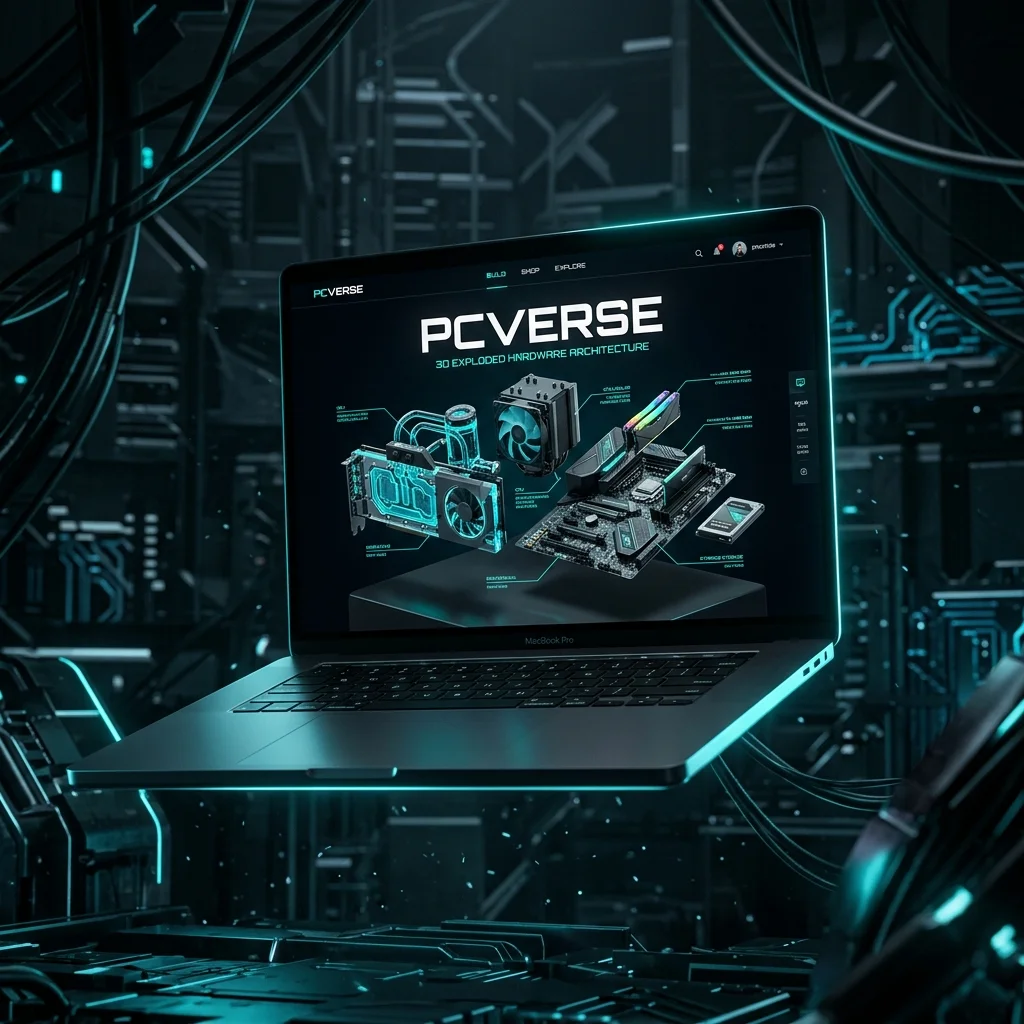
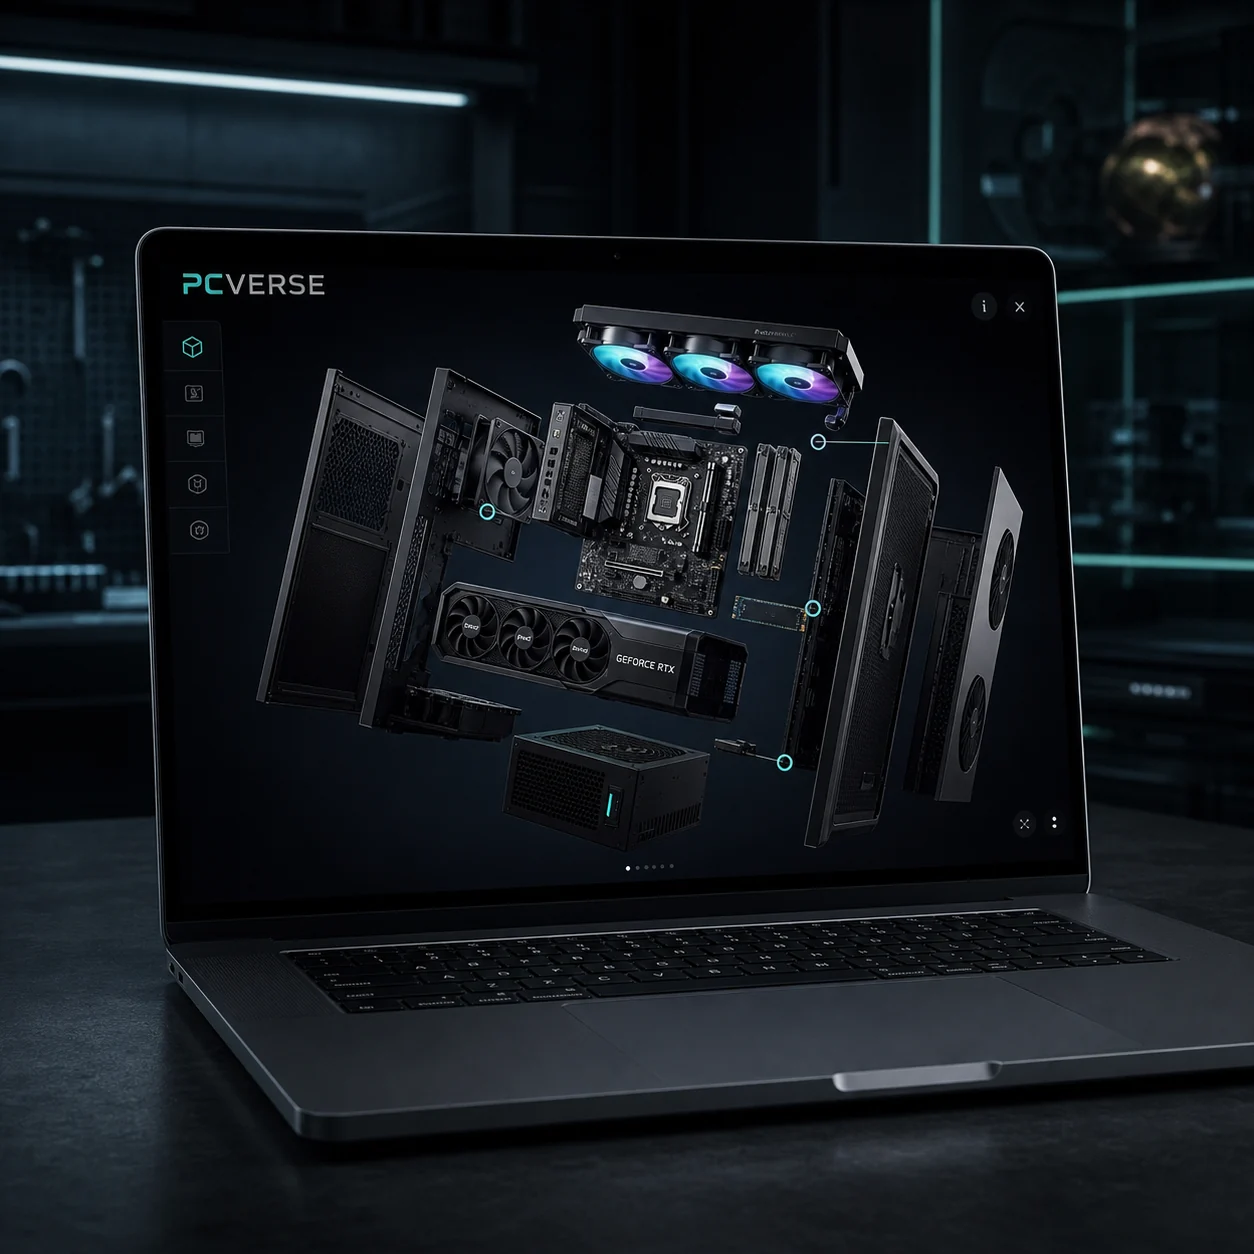
feat(projects): refresh four archive mockups

diff --git a/CHANGELOG.md b/CHANGELOG.md
@@ -8,12 +8,12 @@ stosują [Semantic Versioning](https://semver.org/).
 
 ### Changed
 
-- Siedemnaście mockupów projektów — APK://GENESIS, BRIXCORE, Beyond the Door,
+- Dwadzieścia jeden mockupów projektów — APK://GENESIS, BRIXCORE, Beyond the Door,
   CAN//FORM, EDM Music Festival, THE VAULT, Skin Elixir, APKMASON ARC,
   FRUIT ENERGY, Sfera, Evolution of the Phone, THE IRIS, Pure Form, From
-  Sand to Silicon, Inside the Internet, SPARK i ASCENT — zastąpiono kadrami
-  przygotowanymi na podstawie aktualnych assetów źródłowych i zapisanymi jako
-  zoptymalizowane WebP; THE VAULT
+  Sand to Silicon, Inside the Internet, SPARK, ASCENT, ORIGIN, Poznaj AI,
+  VIBE//SHIFT i PCVerse — zastąpiono kadrami przygotowanymi na podstawie
+  aktualnych assetów źródłowych i zapisanymi jako zoptymalizowane WebP; THE VAULT
   pokazuje bieżącą, jednoczęściową płytę drzwi otwieraną w prawo, a EDM
   aktualną scenografię i identyfikację „BEYOND THE DROP.”,
 - „VOID DROP” zastąpił „Skin Elixir” na szóstej pozycji wyróżnionej
